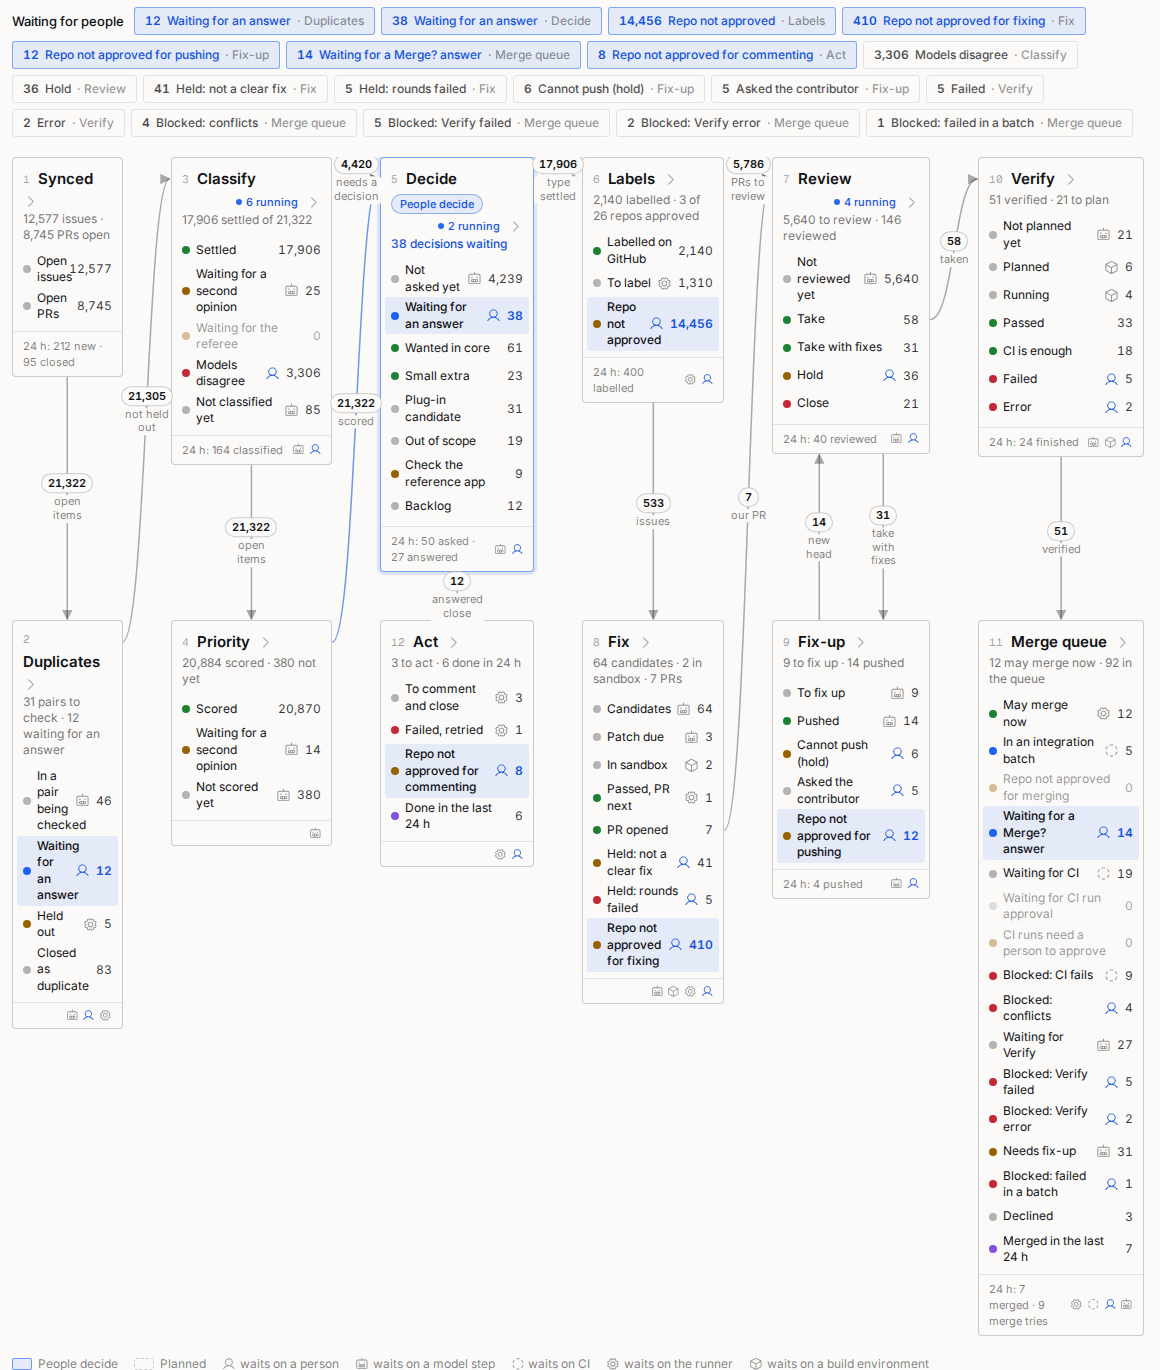
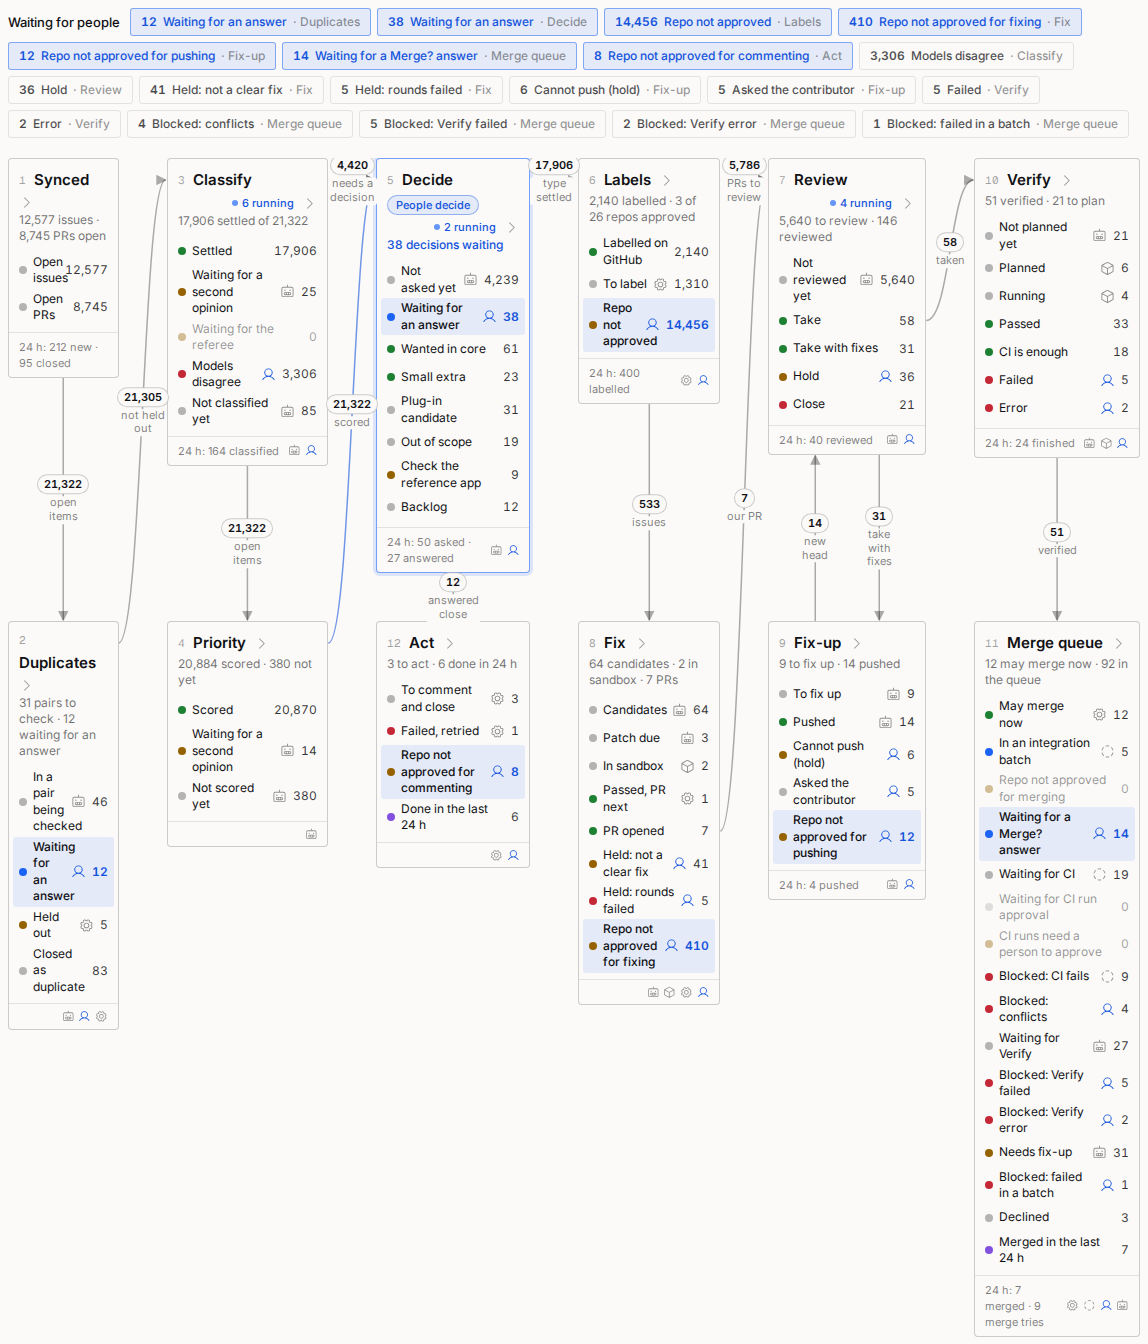
Add flowchart screenshot script and regenerate the README image

diff --git a/docs/operations.md b/docs/operations.md
@@ -200,6 +200,16 @@ Param kinds are `enum`, `repo` (a tracked repo), `int` and `run-id`; there is no
 
 After a change to a stage in `src/stages/registry.ts`, run `npm run docs` and `npm run docs:image`.
 
+`npm run docs:image -- <url>` screenshots the dashboard home page into `docs/images/flowchart.png`. Build the mock UI and serve it first:
+
+```sh
+(cd web && VITE_MOCK=1 npx vite build --outDir <dir> --emptyOutDir)
+node scripts/serve-spa.mjs <dir> 8980 &
+PLAYWRIGHT_DIR=<dir with node_modules/playwright-core> CHROMIUM_PATH=<chromium binary> npm run docs:image -- http://127.0.0.1:8980
+```
+
+Playwright is not a dependency of the repo; the header of `scripts/flowchart-shot.mjs` lists the two variables.
+
 ## Running a worker
 
 A worker runs untrusted build tasks for the coordinator (the runner process). It holds no GitHub token, no Claude login and no database access: it downloads public source tarballs anonymously, runs each plan step in a fresh container, and sends logs, results and artifacts back, all of which the coordinator treats as untrusted data.
